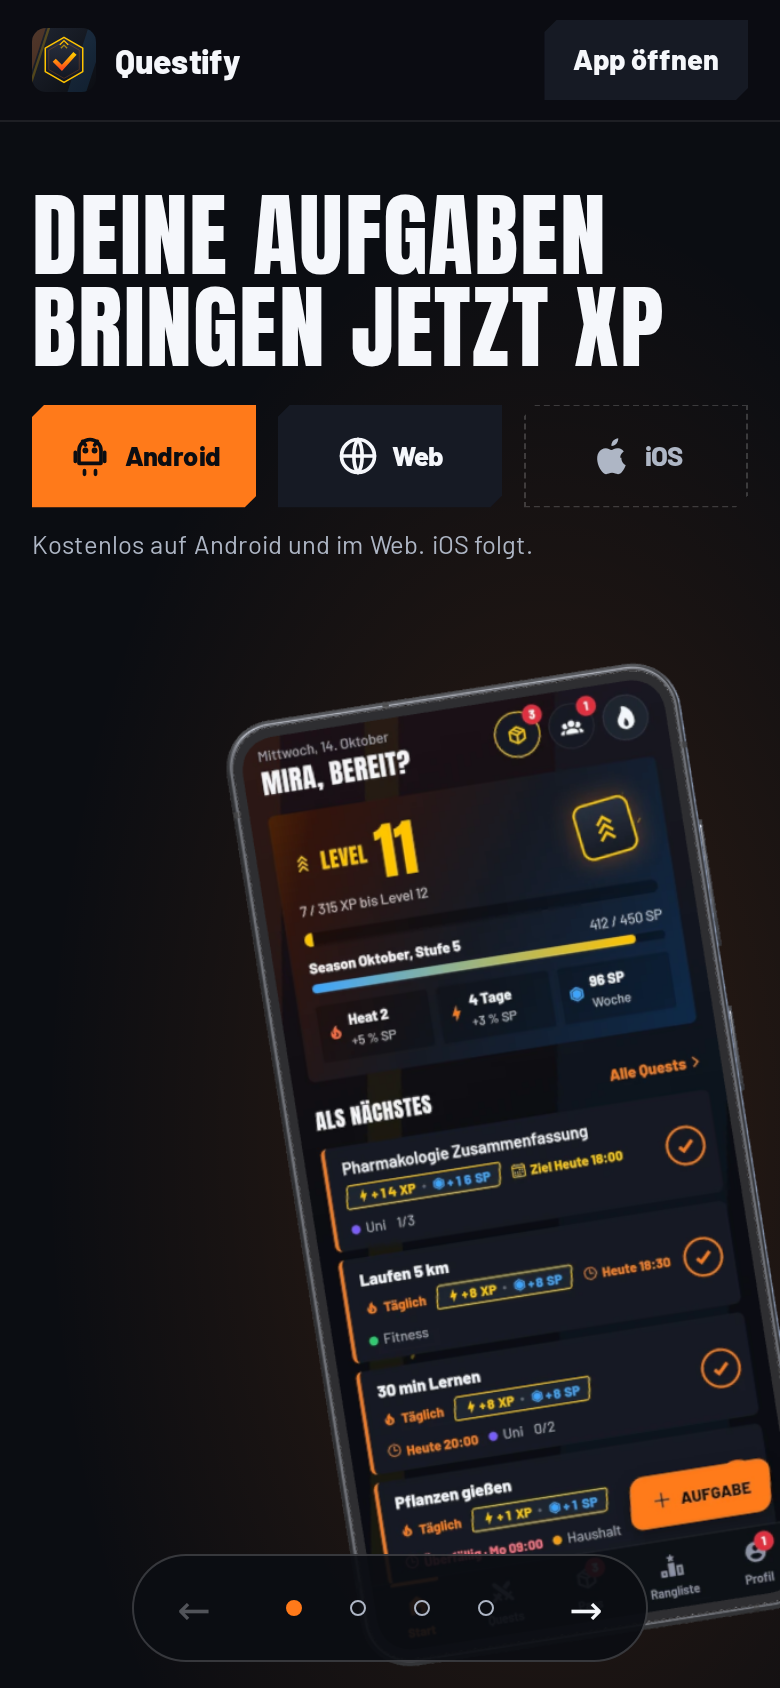
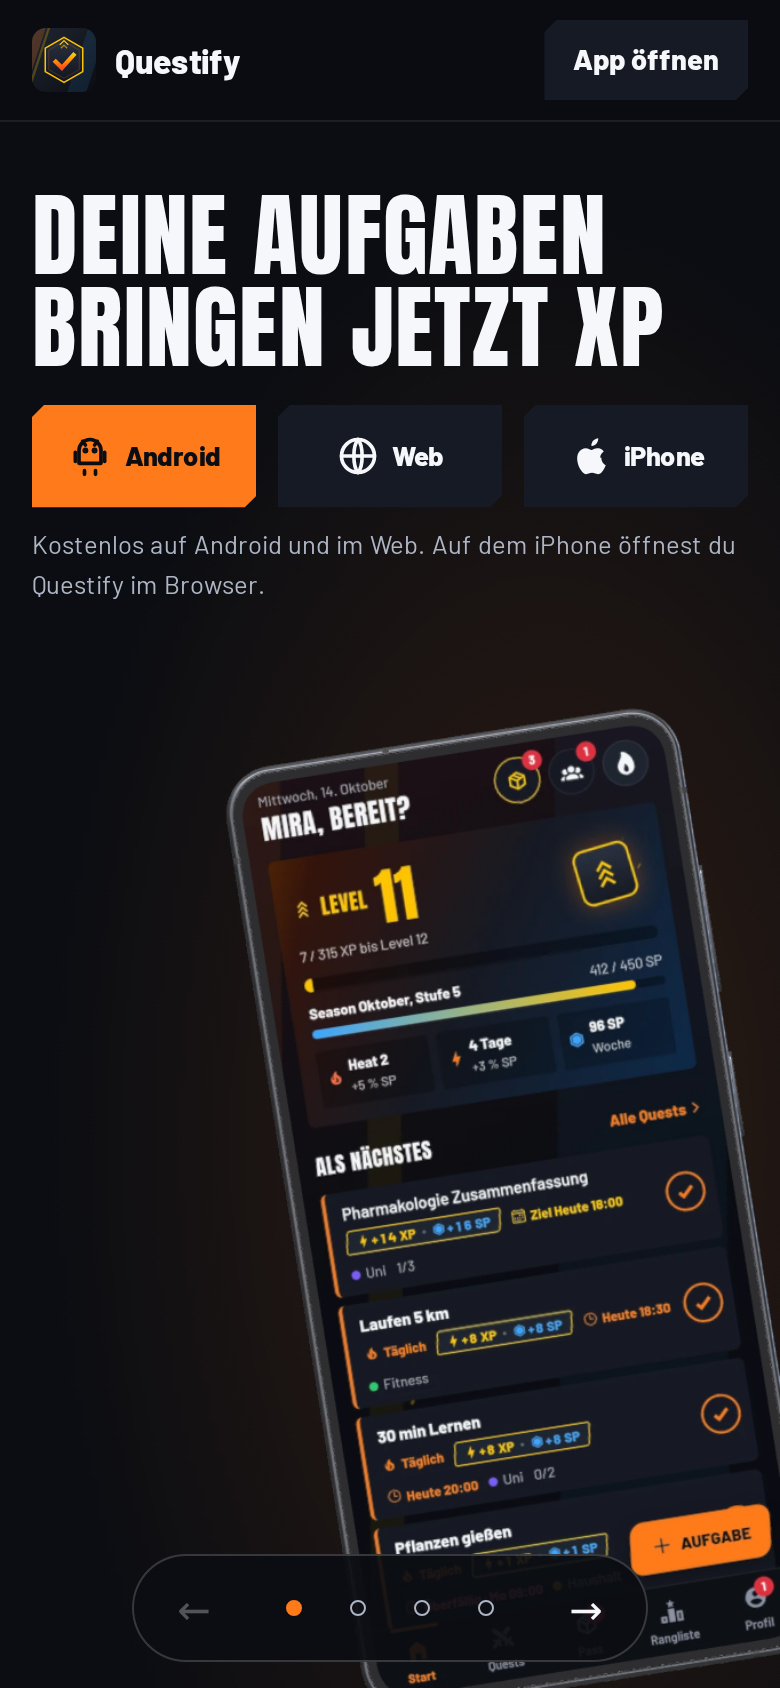
docs: plain role statement, consistent seed-data wording, versions in ARCHITECTURE.md (#2)
README: one-sentence opening, role without commit counts, seed-data wording consistent between caption and Limitations, framework names without versions (exact versions stay in docs/ARCHITECTURE.md), no native iOS app stated plainly, screenshots 01 and 03 retaken after the landing page fix.

diff --git a/README.md b/README.md
@@ -1,6 +1,6 @@
 # Questify
 
-A plain to-do list gives you no reason to open it again tomorrow. Questify turns tasks into quests that earn XP, levels and a place in weekly and monthly leagues against your friends.
+Questify is a German to-do app for Android and the web. Finished tasks earn XP, levels and a place in weekly and monthly leagues against your friends.
 
 <p>
   <img src="docs/screenshots/01-start.png" alt="Start screen with level, season progress and the next quests" width="200">
@@ -9,7 +9,7 @@ A plain to-do list gives you no reason to open it again tomorrow. Questify turns
   <img src="docs/screenshots/04-leaderboard.png" alt="Monthly leaderboard among friends" width="200">
 </p>
 
-Screenshots: the public landing page, mobile viewport, taken with Playwright on 30 Oct 2026. The phone screens show the app's built-in demo account (Mira and her friends are seed data, not real users).
+Screenshots: the public landing page, mobile viewport, taken with Playwright on 30 Oct 2026. The phone screens show seed data from the app's test fixtures. Mira and her friends are not real users, and visitors cannot use that data.
 
 ## Try it
 
@@ -19,25 +19,25 @@ Screenshots: the public landing page, mobile viewport, taken with Playwright on 
 
 ## My role
 
-Nikita Vassiljev ([GitHub](https://github.com/vassiljevnikita-sudo)), solo developer: concept, app code, design and releases. I built it with AI coding agents (Claude and OpenAI Codex). In the private source repository, 362 of the 383 commits on `main` come from my account and 21 from Codex agent accounts; 354 commits name an AI agent as co-author.
+Nikita Vassiljev ([GitHub](https://github.com/vassiljevnikita-sudo)), solo developer: concept, app code, design and releases. I built it with AI coding agents (Claude and OpenAI Codex).
 
 ## Tech stack
 
-- TypeScript 6.0.3 (type-checked with tsc-rs 0.2.0); two small native Android modules in Kotlin (launcher icon per look, haptic patterns)
-- React Native 0.86.3 with React 19.2.3, Expo SDK 57 (`expo` 57.0.30), Expo Router 57.0.28, React Native Web 0.21.4 for the web build
-- TanStack Query 5.104.4 for server state, Reanimated 4.5.1 for animation
-- Supabase (Postgres, Auth) through `@supabase/supabase-js` 2.118.0
-- Tests and tooling: Vitest 3.2.7, Playwright 1.62.1, pnpm 10.17.1, Node 26.7 or newer
+- TypeScript; two small native Android modules in Kotlin (launcher icon per look, haptic patterns)
+- React Native and Expo with Expo Router; React Native Web for the web build
+- TanStack Query for server state, Reanimated for animation
+- Supabase (Postgres, Auth)
+- Tests: Vitest and Playwright
 - Hosting: web on EAS Hosting (`*.expo.app`), Android APK on GitHub Releases
 
-The full dependency list with versions is in [docs/ARCHITECTURE.md](docs/ARCHITECTURE.md).
+Exact versions of every dependency are in [docs/ARCHITECTURE.md](docs/ARCHITECTURE.md).
 
 ## Limitations
 
 - The source code is private. This repository holds the Android builds, the screenshots and the stack list.
-- Android only as an APK outside Google Play, so Android asks you to allow the install. There is no iOS app.
+- Android only as an APK outside Google Play, so Android asks you to allow the install. There is no native iOS app; on an iPhone, use the web app in the browser.
 - The interface is German only.
-- You need an account. The web app has no guest or demo mode; the demo data above exists only in the screenshots.
+- You need an account. The web app has no guest or demo mode; the seed data in the screenshots is not reachable from the live app.
 - Solo project: no external security audit, no uptime guarantee.
 
 ## Install on Android

diff --git a/docs/ARCHITECTURE.md b/docs/ARCHITECTURE.md
@@ -9,7 +9,7 @@ The Questify source repository is private. This file is the public record of wha
 - One Expo app (`apps/mobile`) builds both targets: the Android APK and the web app. The web build uses React Native Web.
 - Screens use Expo Router for navigation and TanStack Query for data from the server.
 - The backend is Supabase: Postgres for data, Supabase Auth for email and password sign-in. The database schema and the game rules (XP, rewards, anti-cheat) live in a separate private repository.
-- For tests and previews the app has a fixture backend: an in-memory copy of the backend contract with seed data (the demo account "Mira" in the screenshots). Production builds refuse it.
+- For tests and previews the app has a fixture backend: an in-memory copy of the backend contract with seed data ("Mira" and her friends in the README screenshots, not real users). Production builds refuse it.
 - Two local Expo modules are written in Kotlin: `questify-app-icon` switches the Android launcher icon per look, `questify-haptics` defines named vibration patterns.
 - Hosting: the web build runs on EAS Hosting at [mastertasker.expo.app](https://mastertasker.expo.app/). Android APKs are published in this repository's [Releases](https://github.com/vassiljevnikita-sudo/questify-releases/releases).
 
